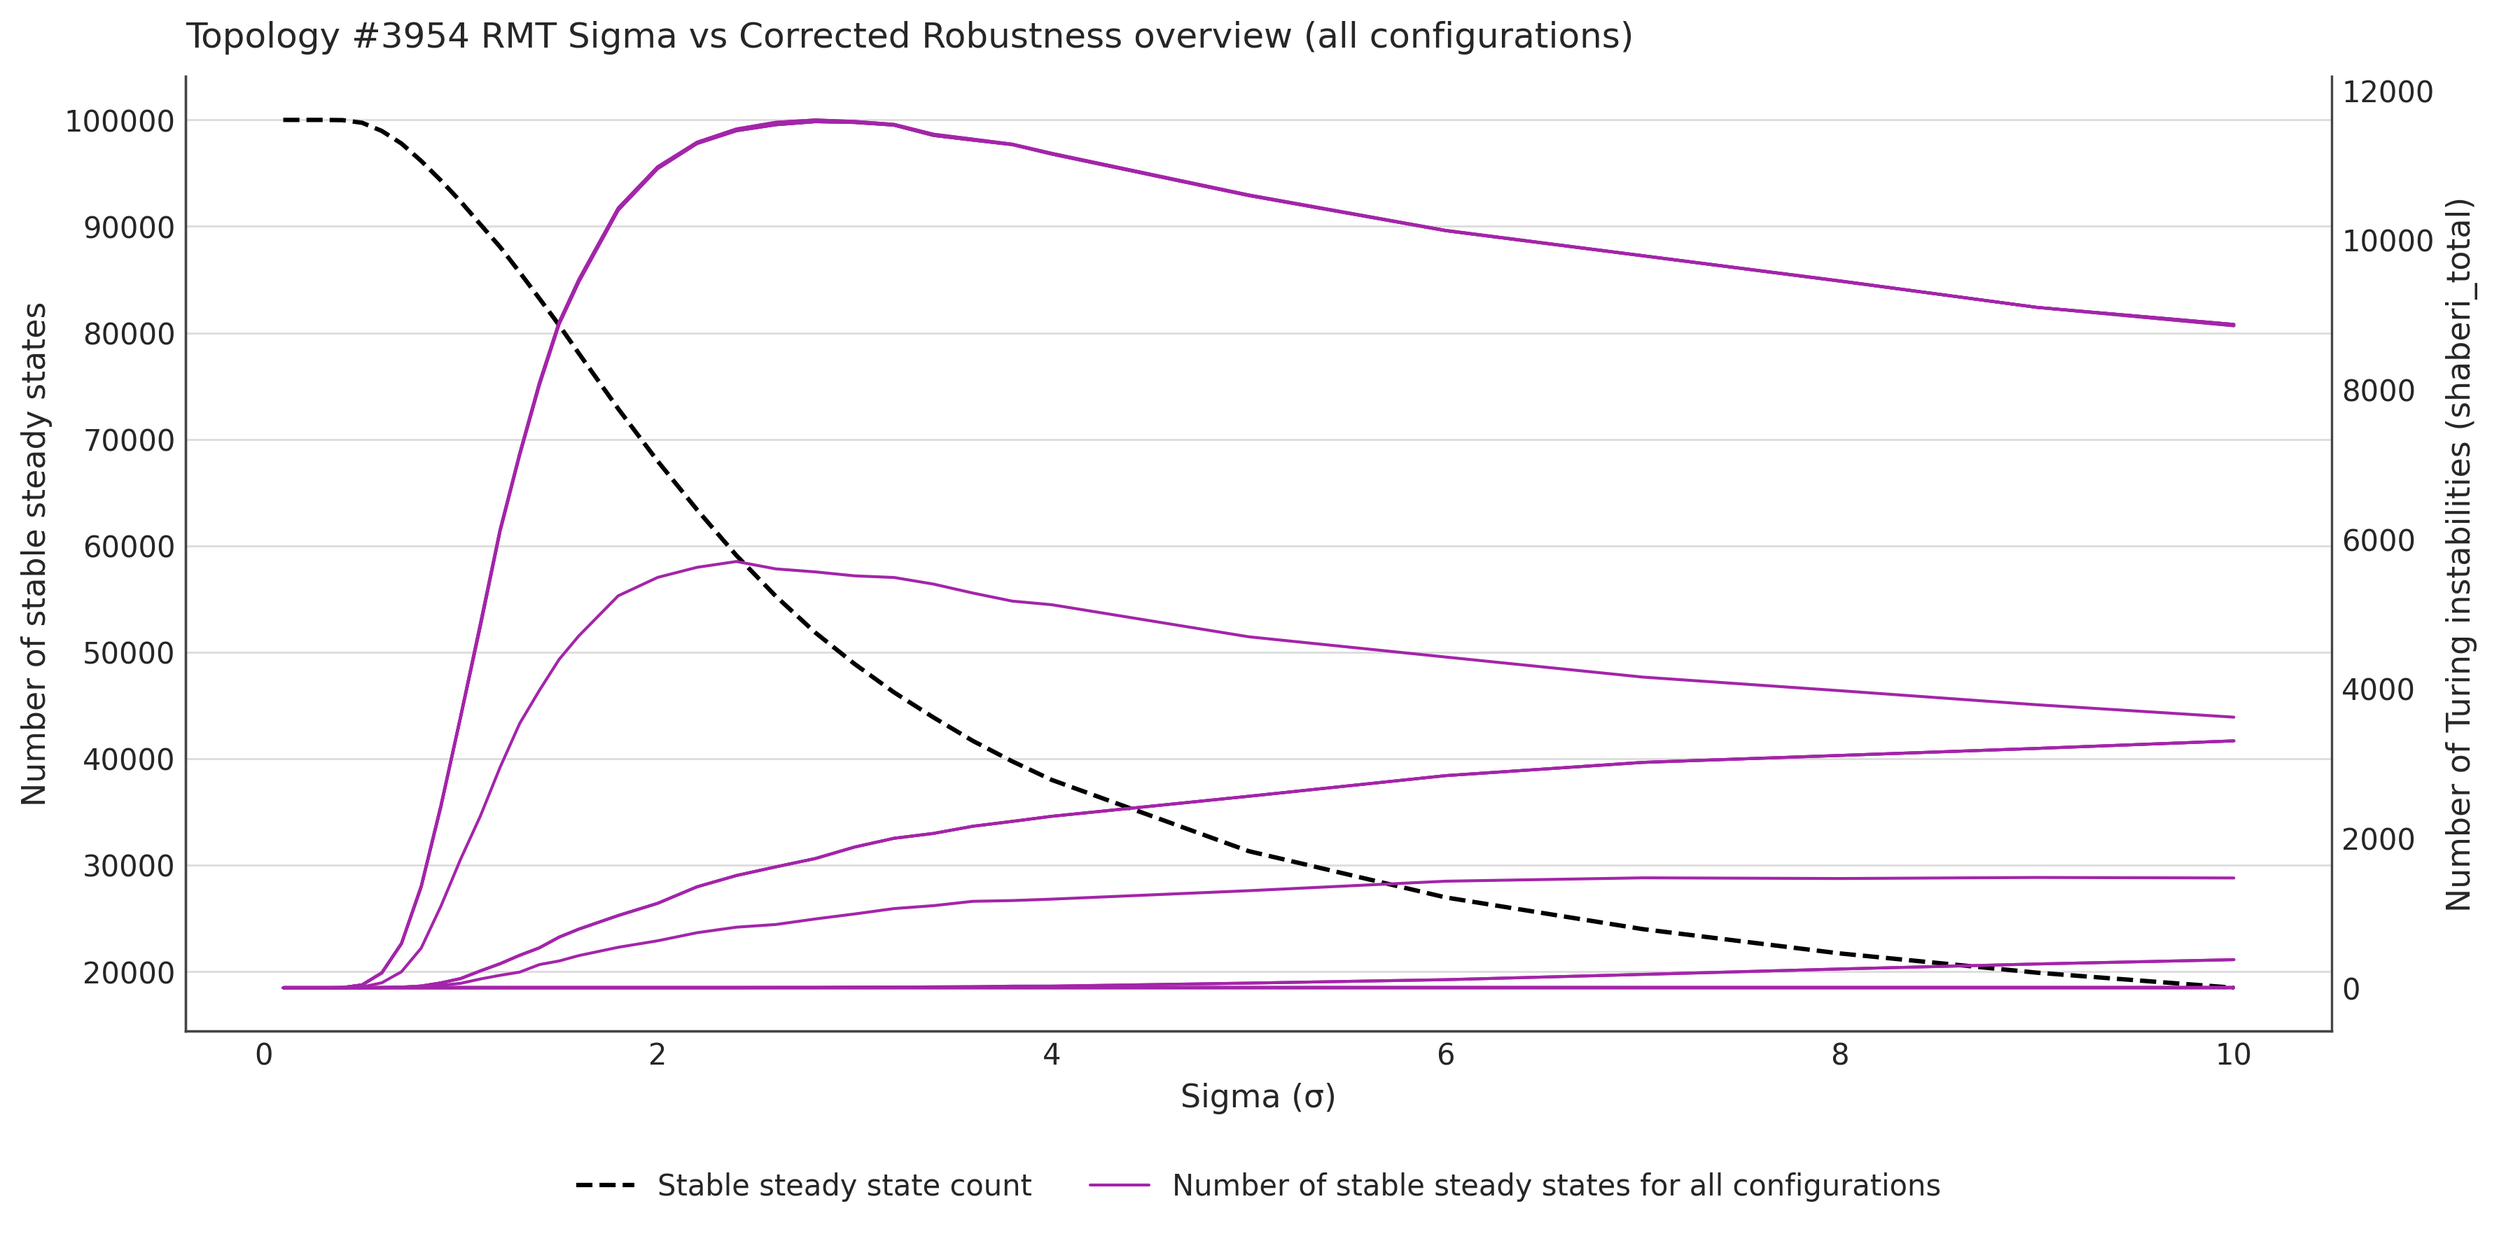
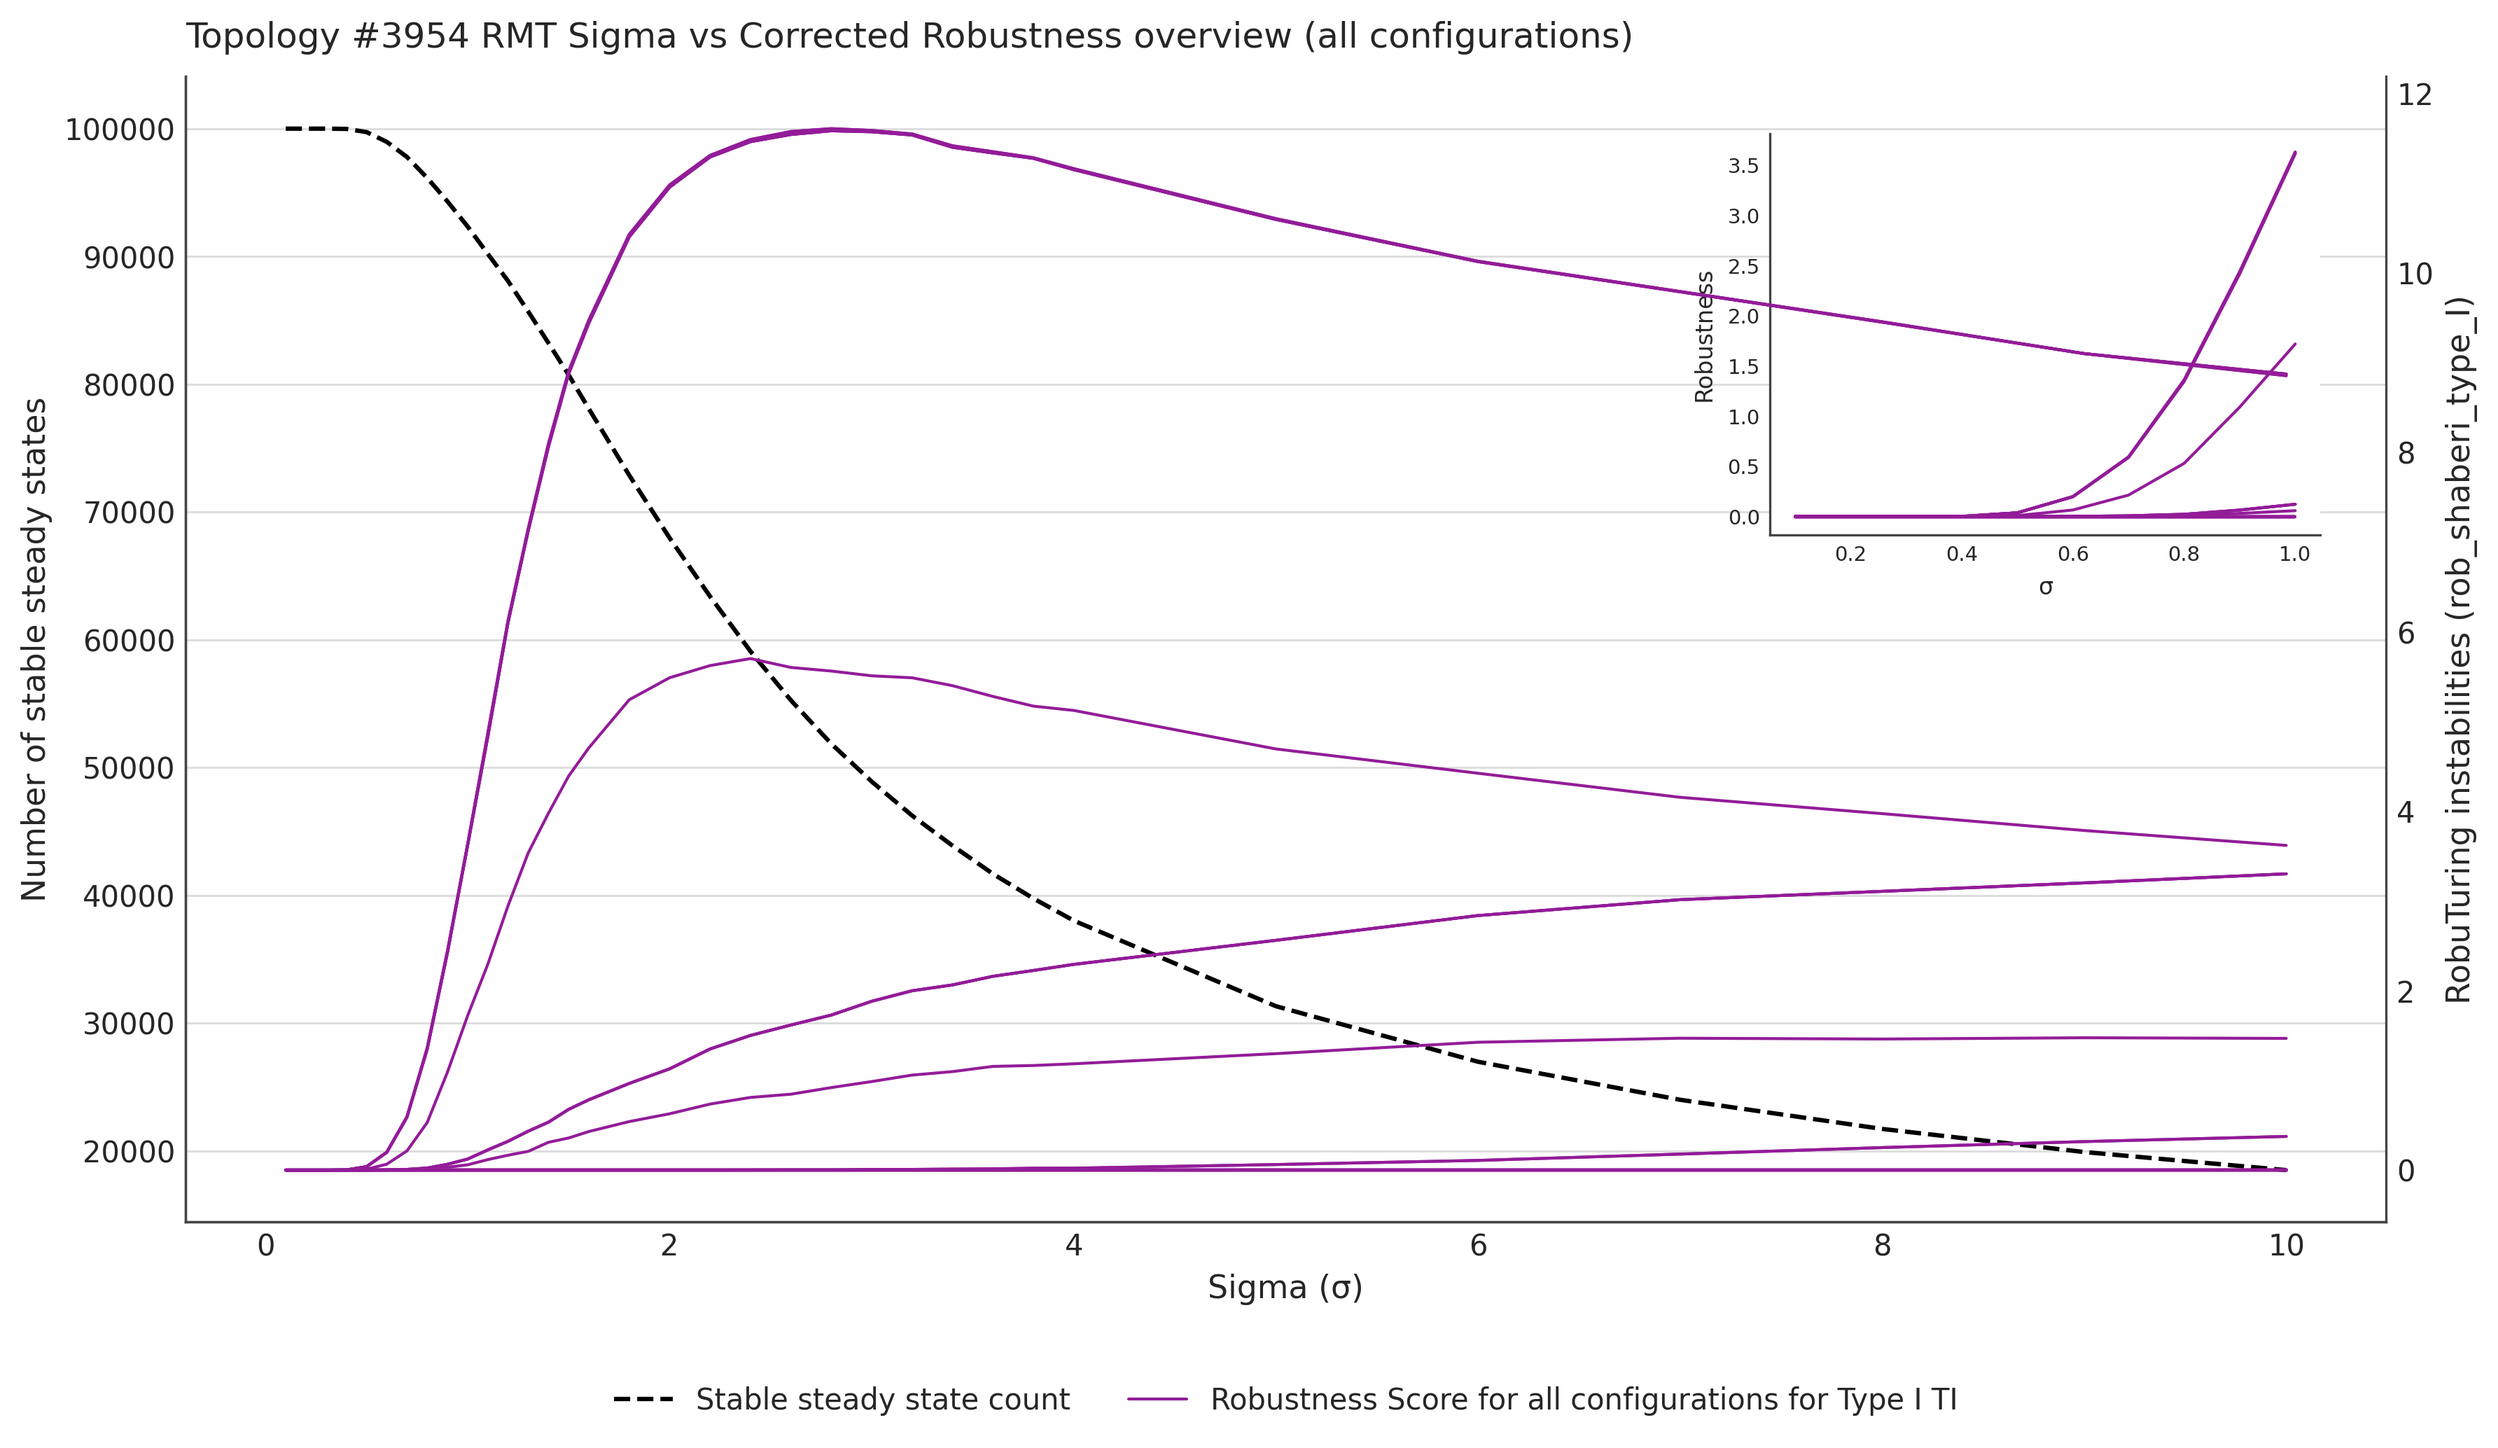
small changes i think

diff --git a/TopologyRanking/Topology3954/rmt_plots_results_3954.py b/TopologyRanking/Topology3954/rmt_plots_results_3954.py
@@ -137,7 +137,7 @@ def fig3_corrected_overview(df):
     df = df.copy()
     # df["rob_corrected"] = df["shaberi_total"] / df["n_samples"]
 
-    fig, ax_stable = plt.subplots(figsize=(12, 6))
+    fig, ax_stable = plt.subplots(figsize=(12, 7))
 
     # Left y-axis: stable count (dashed black)
     stable = df.groupby("sigma")["stable_without_diffusion"].first()
@@ -154,13 +154,13 @@ def fig3_corrected_overview(df):
         subset = df[df["config_name"] == cfg].sort_values("sigma")
         ax_rob.plot(
             subset["sigma"],
-            subset["shaberi_type_I"],  # CHANGED subset["rob_corrected"] to subset["shaberi_type_I"]!! CHANGE BACK LATER IF NEEDED
-            color="#A325A9",
+            subset["rob_shaberi_type_I"],  # CHANGED subset["rob_corrected"] to subset["shaberi_type_I"]!! CHANGE BACK LATER IF NEEDED
+            color="#931C99",
             linewidth=1,
             #alpha=0.6,     # keep there if you want: it shows where values cluster so it gets thicker if there is another value exactly like that bc then they are on top of each other but if we dont want thicker lines just remove it
-            label="Number of stable steady states for all configurations" if i == 0 else "",
+            label="Robustness Score for all configurations for Type I TI" if i == 0 else "",
         )
-    ax_rob.set_ylabel("Number of Turing instabilities (shaberi_total)", fontsize=11)
+    ax_rob.set_ylabel("RobuTuring instabilities (rob_shaberi_type_I)", fontsize=11)
     ax_rob.spines["right"].set_visible(True)
     ax_rob.spines["top"].set_visible(False)
     ax_rob.yaxis.grid(False)
@@ -174,6 +174,28 @@ def fig3_corrected_overview(df):
     lines1, labels1 = ax_stable.get_legend_handles_labels()
     lines2, labels2 = ax_rob.get_legend_handles_labels()
     ax_stable.legend(lines1 + lines2, labels1 + labels2, frameon=False, loc="upper center", bbox_to_anchor=(0.5, -0.12), ncol=2)
+
+    # Inset: zoomed view sigma 0.1 to 1.0
+    # ax_inset = ax_stable.inset_axes([0.55, 0.55, 0.4, 0.35])  # [x, y, width, height] in axes coords
+    ax_inset = ax_stable.inset_axes([0.72, 0.6, 0.25, 0.35])
+    ax_inset.set_facecolor("white")
+    ax_inset.patch.set_alpha(1.0)
+    ax_inset.set_zorder(ax_rob.get_zorder() + 1)
+    ax_stable.patch.set_visible(False)
+
+    zoom = df[df["sigma"] <= 1.0]
+    for i, cfg in enumerate(zoom["config_name"].unique()):
+        subset = zoom[zoom["config_name"] == cfg].sort_values("sigma")
+        ax_inset.plot(subset["sigma"], subset["rob_shaberi_type_I"],
+                    color="#931C99", linewidth=1)
+
+    ax_inset.set_xlabel("σ", fontsize=8)
+    ax_inset.set_ylabel("Robustness", fontsize=8)
+    # ax_inset.set_title("σ = 0.1 – 1.0", fontsize=8)
+    ax_inset.tick_params(labelsize=7)
+    # ax_inset.yaxis.grid(True, color="#dddddd", linewidth=0.7)
+    ax_inset.yaxis.grid(False)
+    ax_inset.xaxis.grid(False)
 
     fig.tight_layout()
     save(fig, "3954_rmt_fig3_corrected_overview")
@@ -208,7 +230,7 @@ def fig4_dotplot_fixed_sigma(df, sigma_val=1.0):
  
     ax.set_xticks([0, 1, 2])
     ax.set_xticklabels(["Type 1", "Type 2", "Type 3"], fontsize=11)
-    ax.set_ylabel("Robustness (rob_shaberi_total)", fontsize=11)
+    ax.set_ylabel("Robustness (rob_shaberi_type_I)", fontsize=11)
     ax.set_title(
         f"Topology #3954 RMT – Robustness by Turing Type at σ = {sigma_val}",
         fontsize=12, loc="left", pad=10,
